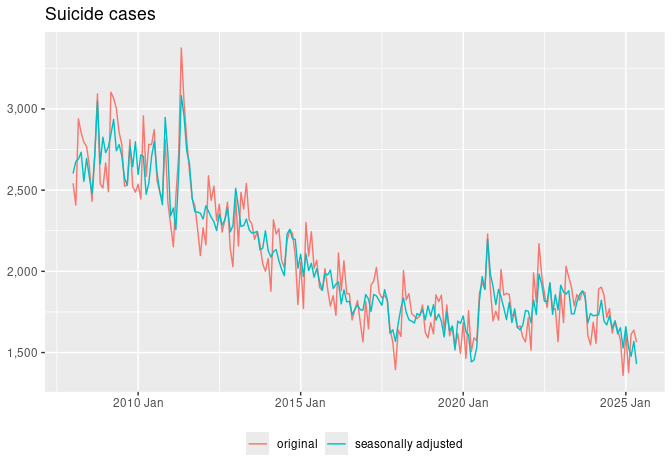
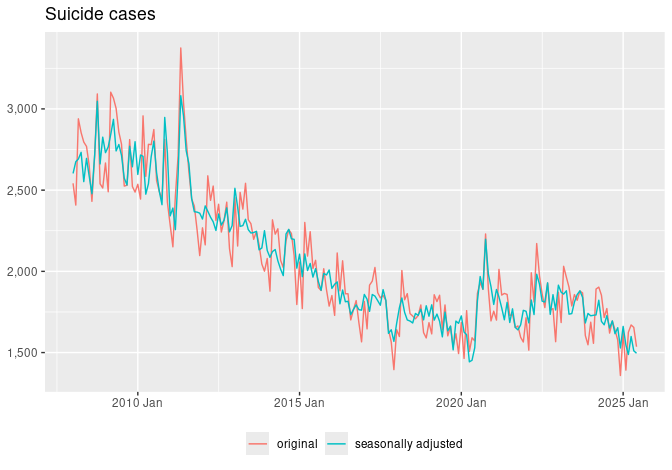
update June 2025 cases

diff --git a/README.md b/README.md
@@ -10,7 +10,7 @@ Mitsuo Shiota
 - [Suicide cases are bouncing back, but not as fast as the program
   suggests](#suicide-cases-are-bouncing-back-but-not-as-fast-as-the-program-suggests)
 
-Updated: 2025-06-28
+Updated: 2025-08-02
 
 ## Motivation
 
